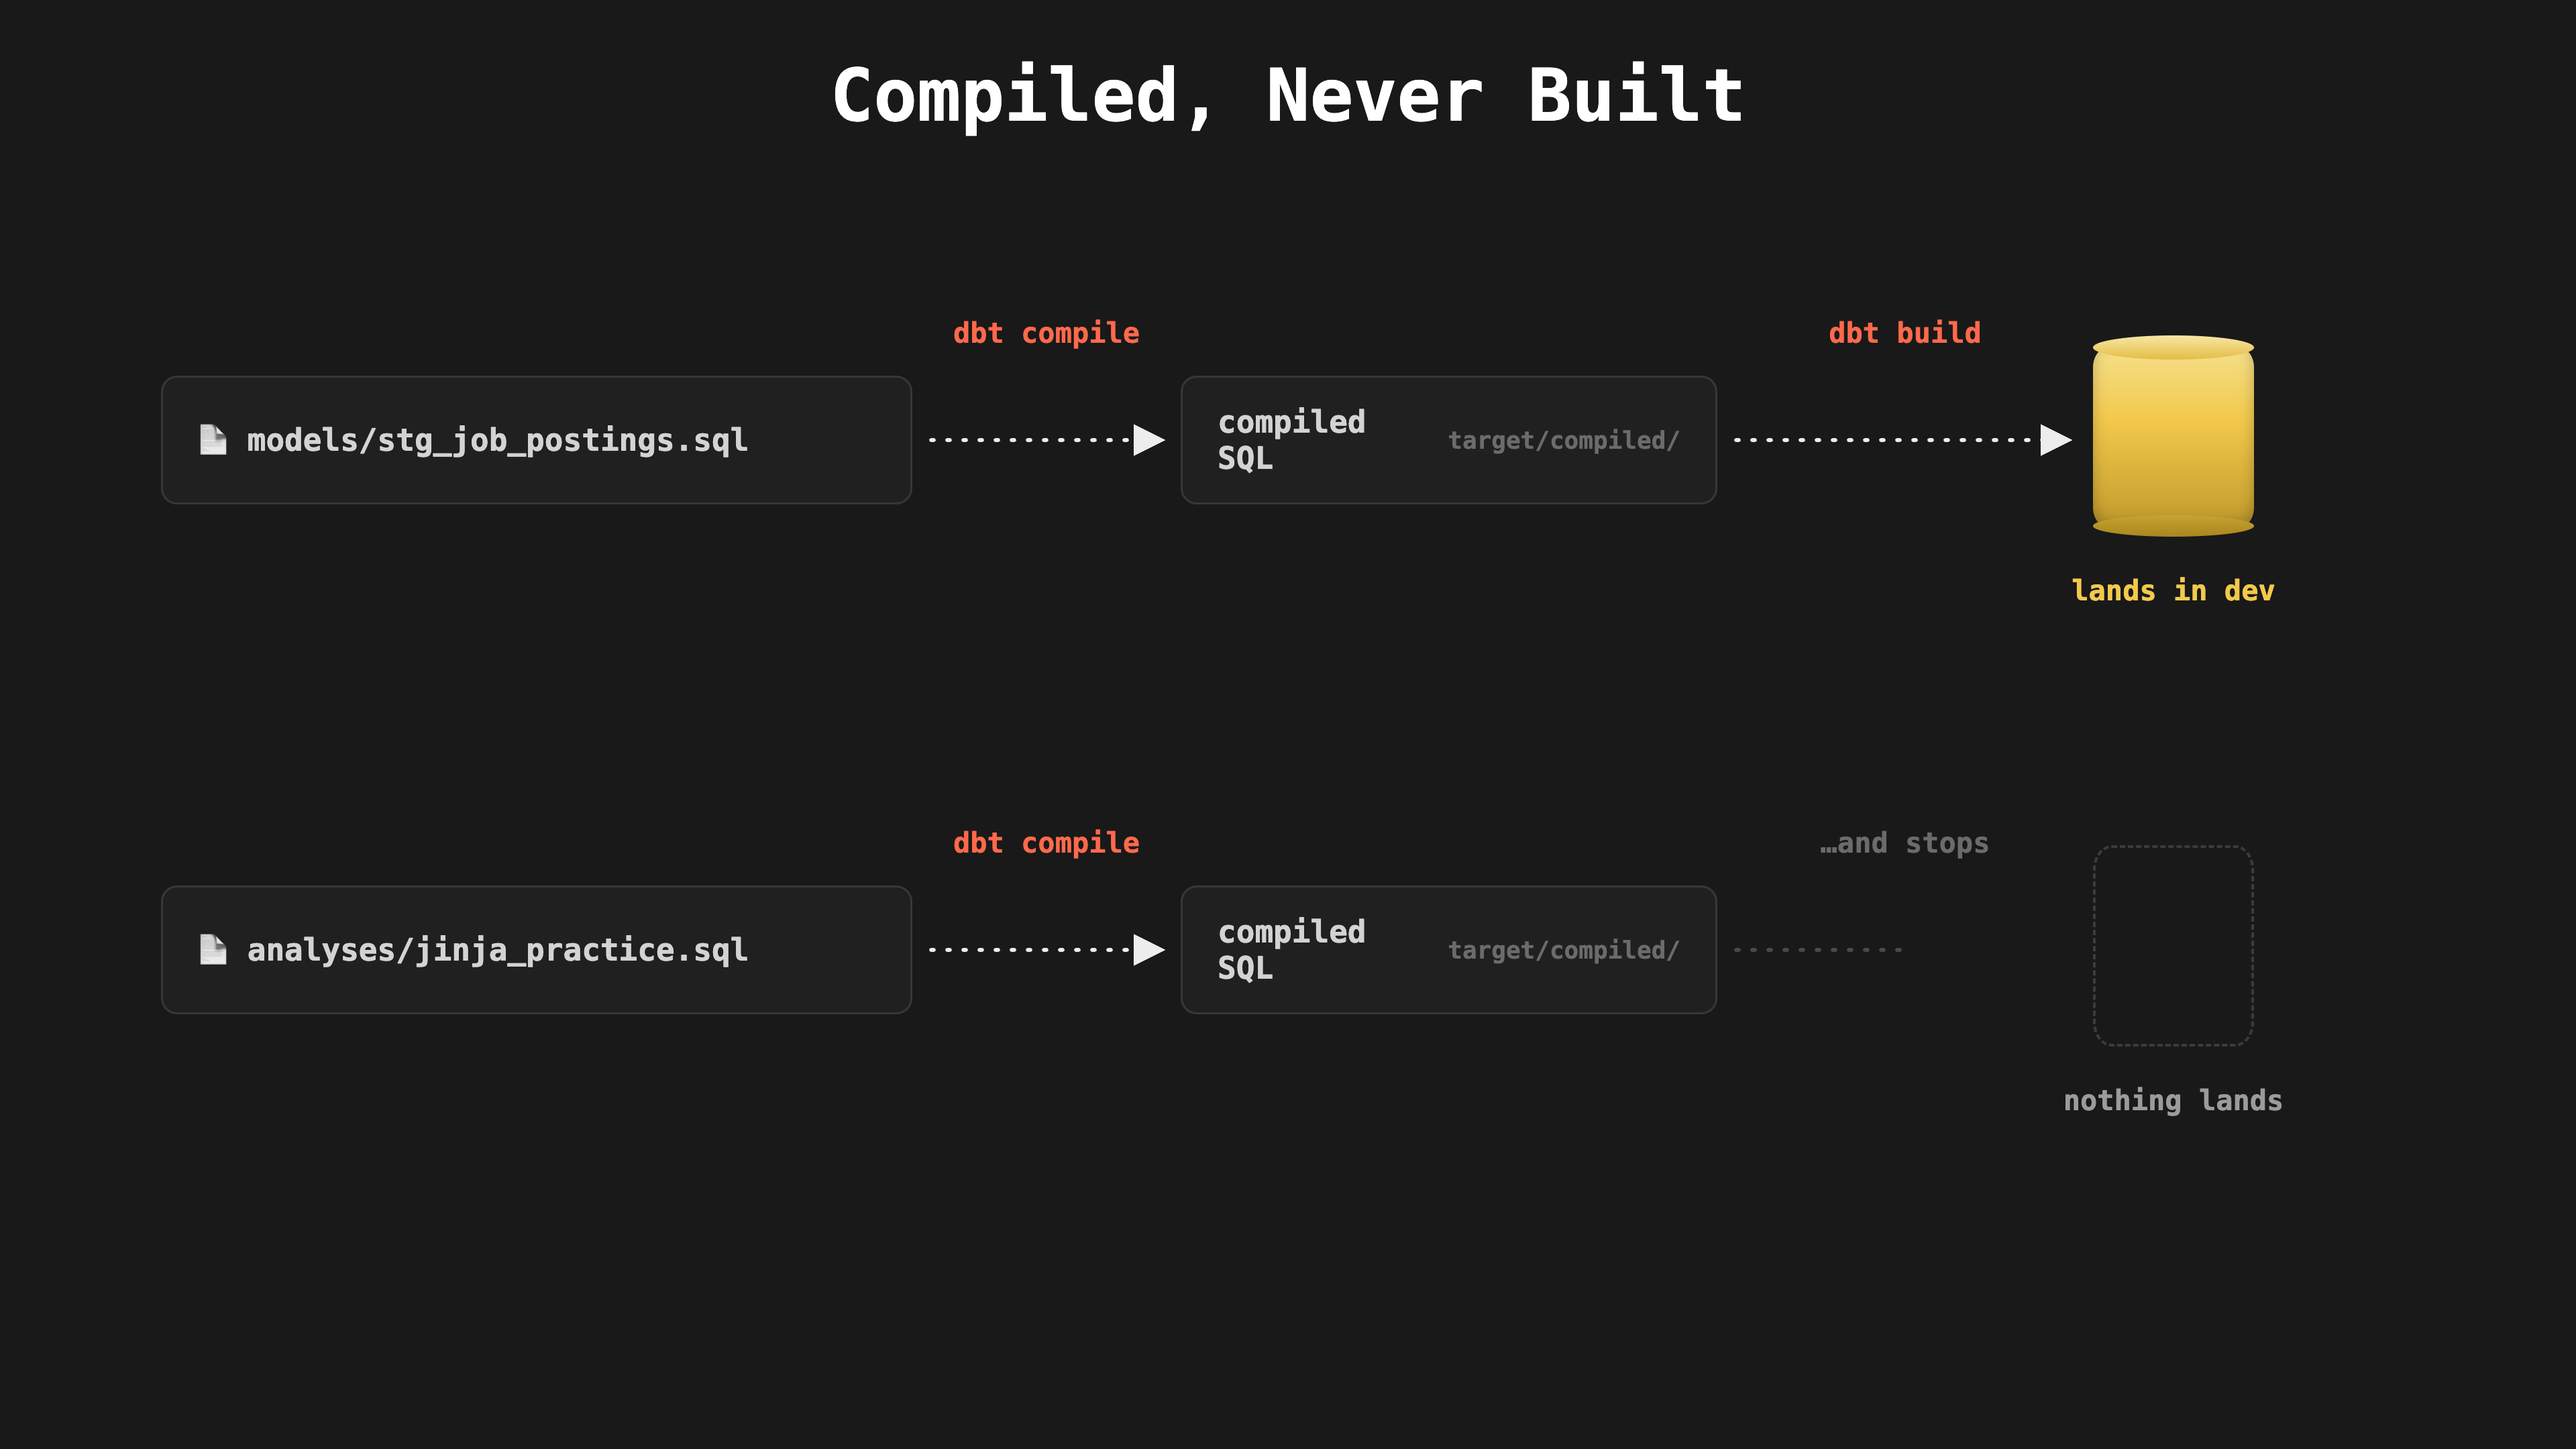
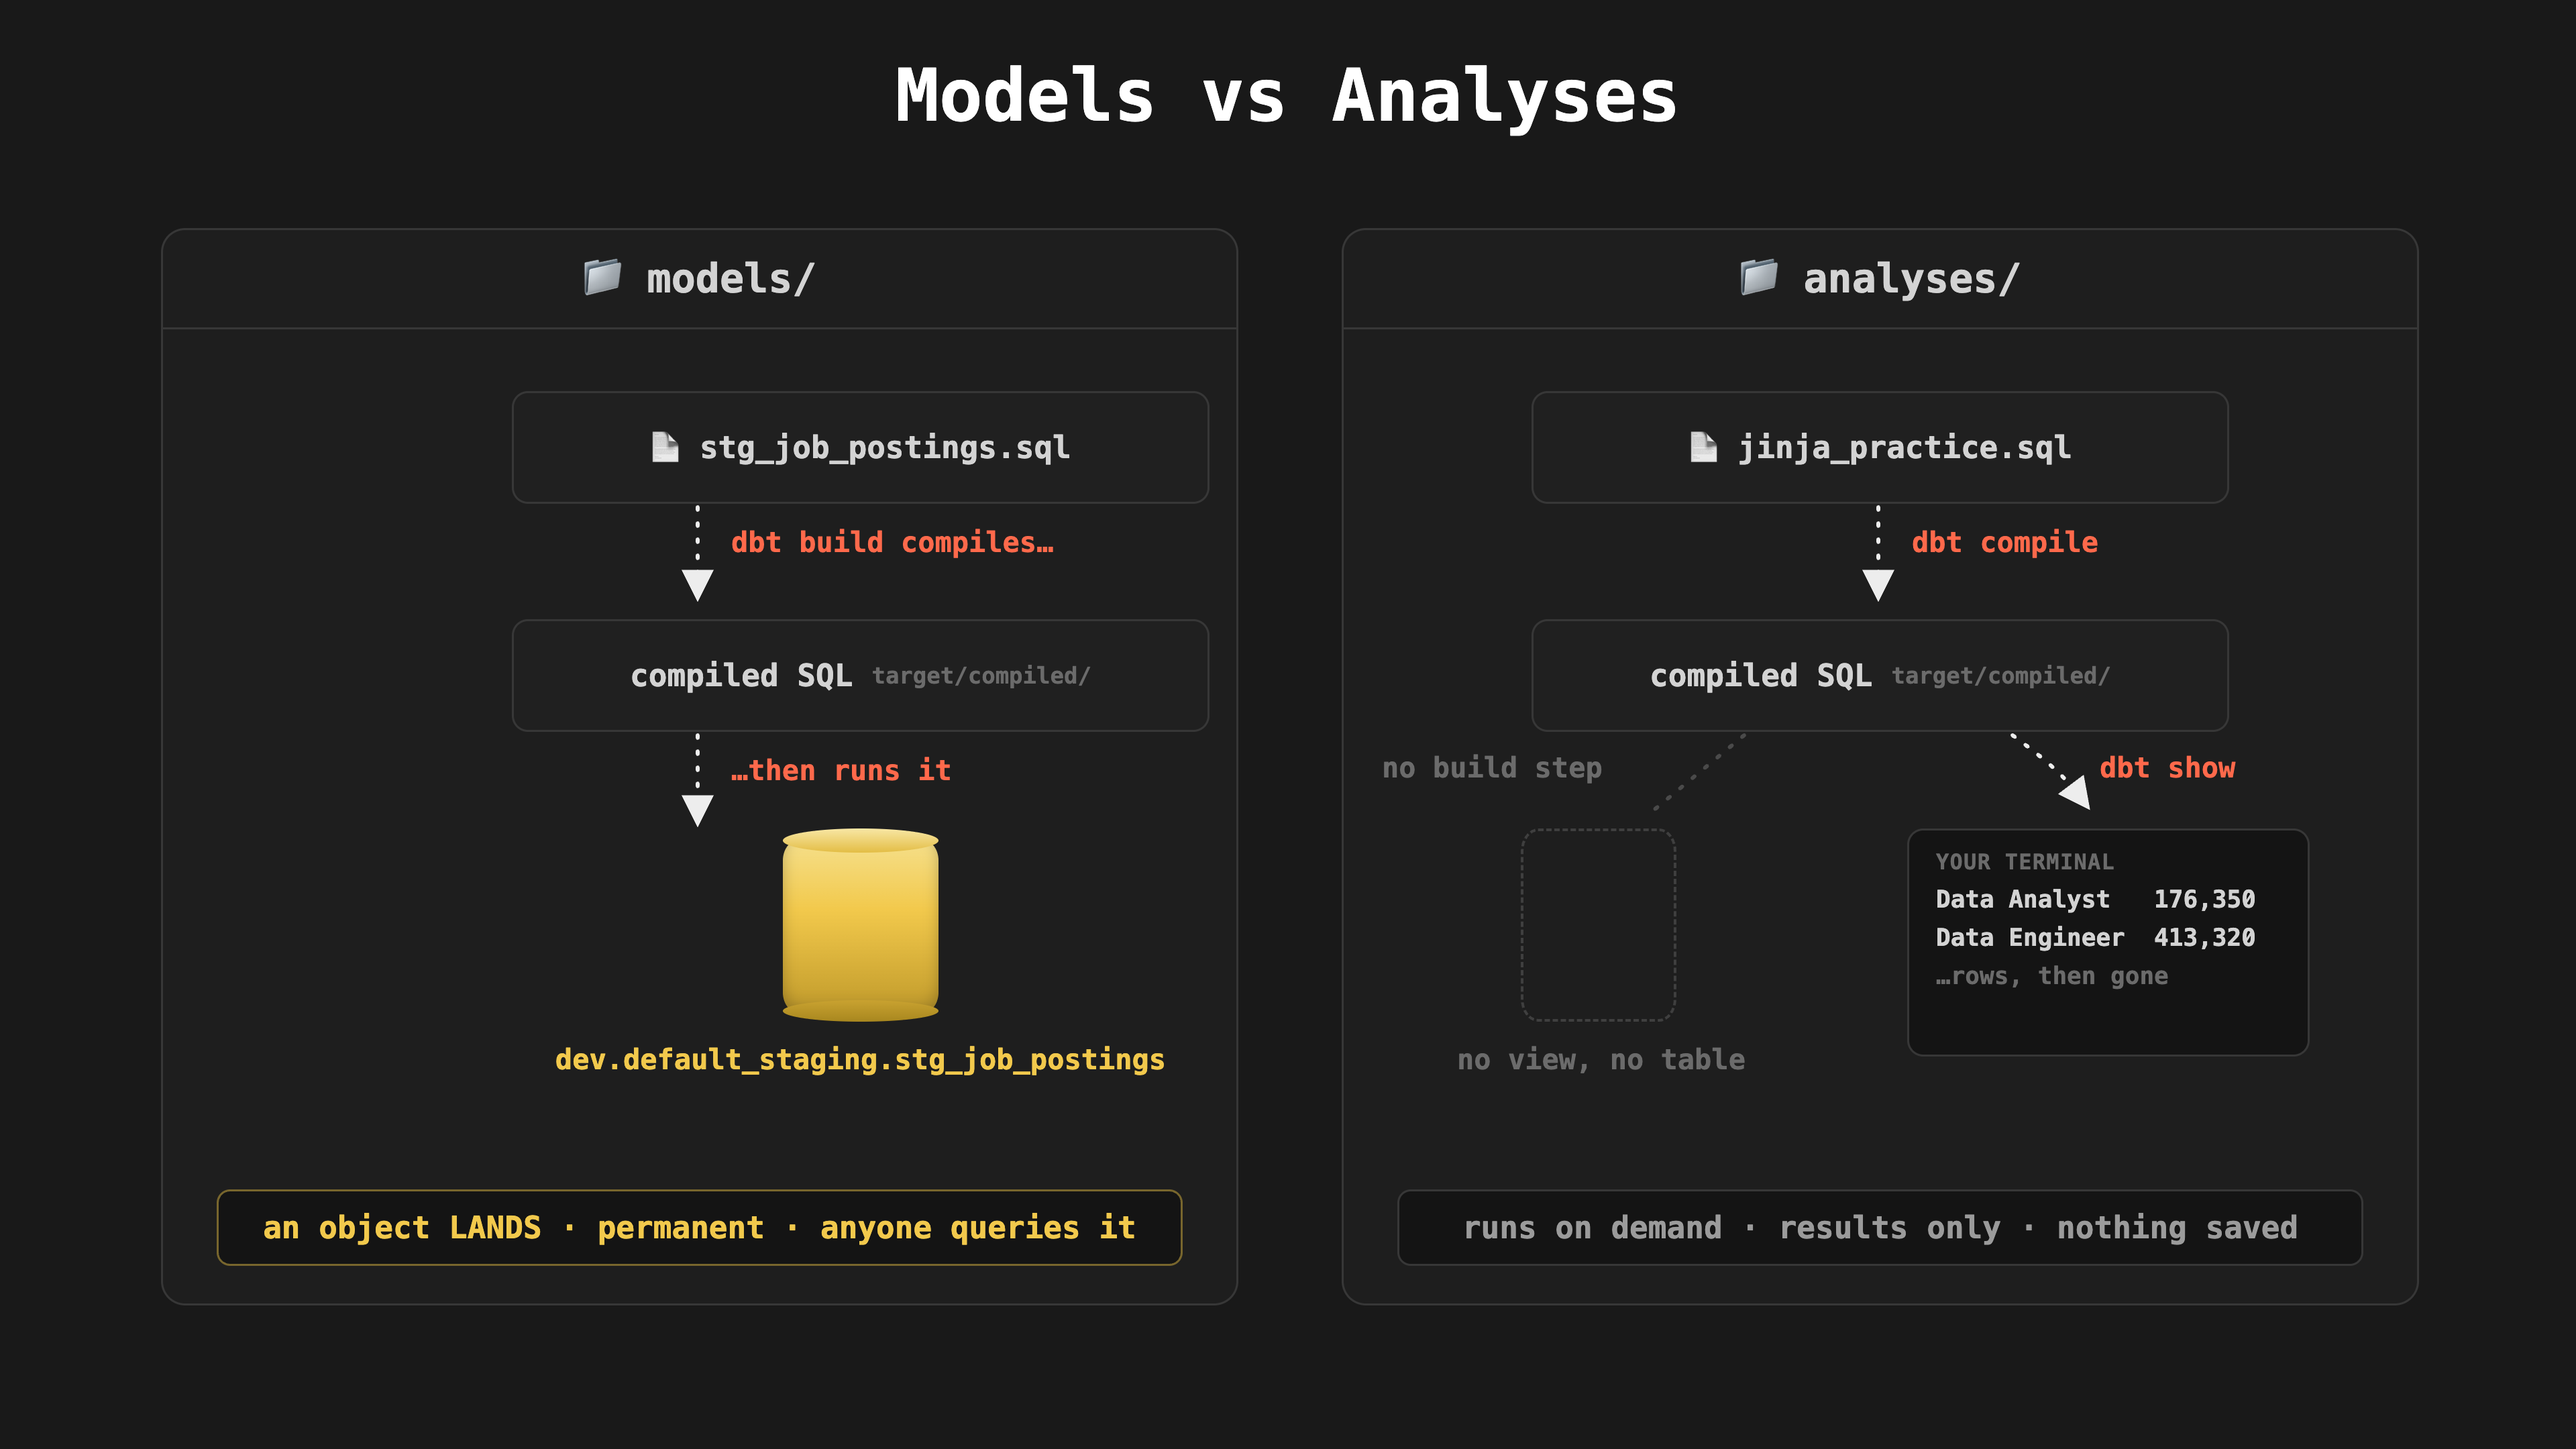
analyses_intro v2 (Luke: too elementary, really Models vs Analyses): two-panel compare - models lane lands dev object, analyses lane forks to no-object ghost AND dbt show terminal card with real rows; run-a-query vs save-an-object distinction drawn

diff --git a/resources/diagrams/3.04_analyses_intro.html b/resources/diagrams/3.04_analyses_intro.html
@@ -3,7 +3,7 @@
 <html>
 <head>
 <meta charset="utf-8">
-<title>Compiled, Never Built</title>
+<title>Models vs Analyses</title>
 <style>
   @import url('https://fonts.googleapis.com/css2?family=Source+Code+Pro:wght@400;600;700;800&display=swap');
   :root{
@@ -18,42 +18,67 @@
   .stage{position:relative;width:1920px;height:1080px;overflow:hidden;font-family:var(--sans);color:var(--text);background:var(--bg)}
   .title{position:absolute;left:0;top:40px;width:1920px;text-align:center;
     font-family:var(--mono);font-size:54px;font-weight:700;color:#FFFFFF}
-  .card{position:absolute;box-sizing:border-box;height:96px;border-radius:12px;background:var(--panel);
-    border:1.5px solid var(--line);display:flex;align-items:center;gap:16px;padding:0 26px;
+  .panel{position:absolute;top:170px;height:800px;background:var(--zone);border:1.5px solid var(--line);border-radius:18px}
+  .phead{position:absolute;left:0;right:0;top:0;height:74px;display:flex;align-items:center;justify-content:center;
+    font-family:var(--mono);font-size:30px;font-weight:800;box-sizing:border-box;border-bottom:1.5px solid var(--line)}
+  .card{position:absolute;box-sizing:border-box;border-radius:12px;background:var(--panel);
+    border:1.5px solid var(--line);display:flex;align-items:center;justify-content:center;gap:14px;
     font-family:var(--mono);font-size:23px;font-weight:700;color:var(--text)}
-  .card small{font-family:var(--mono);font-size:18px;font-weight:600;color:var(--faint)}
-  .cable-label{position:absolute;font-family:var(--mono);font-size:21px;font-weight:700;color:var(--muted);text-align:center}
+  .card small{font-family:var(--mono);font-size:17px;font-weight:600;color:var(--faint)}
+  .lbl{position:absolute;font-family:var(--mono);font-size:21px;font-weight:700;white-space:nowrap}
   .cyl{position:absolute}
   .cyl .body{position:absolute;left:0;right:0;top:9px;bottom:7px;border-radius:11px/15px;background:linear-gradient(180deg,#f5df8a 0%,#F2C94C 40%,#c9a230 90%);box-shadow:inset 0 -5px 10px rgba(0,0,0,.25)}
   .cyl .top{position:absolute;left:0;right:0;top:0;height:18px;border-radius:50%;background:linear-gradient(180deg,#f8e7a5,#e3bd45)}
   .cyl .bot{position:absolute;left:0;right:0;bottom:0;height:16px;border-radius:50%;background:linear-gradient(180deg,#c9a230,#a8871f)}
-  .ghost{position:absolute;box-sizing:border-box;border:2px dashed #4a4a4a;border-radius:14px/18px;opacity:.7}
-  .lane-label{position:absolute;font-family:var(--mono);font-size:26px;font-weight:800}
+  .ghost{position:absolute;box-sizing:border-box;border:2px dashed #4a4a4a;border-radius:13px/17px;opacity:.75}
+  .term{position:absolute;box-sizing:border-box;border-radius:12px;background:#141414;border:1.5px solid var(--line);
+    font-family:var(--mono);padding:14px 20px}
+  .term .th{font-size:16px;font-weight:700;color:var(--faint);letter-spacing:.04em}
+  .term .tr{font-size:18px;font-weight:600;color:var(--text);margin-top:8px;white-space:pre}
+  .tag{position:absolute;left:40px;right:40px;bottom:28px;height:54px;border-radius:10px;
+    display:flex;align-items:center;justify-content:center;font-family:var(--mono);font-size:23px;font-weight:800}
   svg.art{position:absolute;inset:0;pointer-events:none}
 </style>
 </head>
 <body>
 <div class="stage">
 
-  <div class="title">Compiled, Never Built</div>
+  <div class="title">Models vs Analyses</div>
 
-  <!-- ============ LANE 1: models/ ============ -->
-  <div class="card" style="left:120px;top:280px;width:560px">📄 models/stg_job_postings.sql</div>
-  <div class="card" style="left:880px;top:280px;width:400px"><span>compiled SQL</span><small>target/compiled/</small></div>
-  <div class="cyl" style="left:1560px;top:250px;width:120px;height:150px"><div class="body"></div><div class="top"></div><div class="bot"></div></div>
-  <div class="cable-label" style="left:1480px;top:428px;width:280px;color:var(--duck);font-weight:800">lands in dev</div>
+  <!-- ============ LEFT: models/ ============ -->
+  <div class="panel" style="left:120px;width:800px">
+    <div class="phead">📁 models/</div>
+    <div class="card" style="left:260px;top:120px;width:520px;height:84px">📄 stg_job_postings.sql</div>
+    <div class="card" style="left:260px;top:290px;width:520px;height:84px"><span>compiled SQL</span><small>target/compiled/</small></div>
+    <div class="cyl" style="left:462px;top:446px;width:116px;height:144px"><div class="body"></div><div class="top"></div><div class="bot"></div></div>
+    <div class="lbl" style="left:260px;top:606px;width:520px;text-align:center;color:var(--duck);font-weight:800">dev.default_staging.stg_job_postings</div>
+    <div class="tag" style="background:#141414;border:1.5px solid rgba(242,201,76,.45);color:var(--duck)">an object LANDS · permanent · anyone queries it</div>
+  </div>
 
-  <!-- ============ LANE 2: analyses/ ============ -->
-  <div class="card" style="left:120px;top:660px;width:560px">📄 analyses/jinja_practice.sql</div>
-  <div class="card" style="left:880px;top:660px;width:400px"><span>compiled SQL</span><small>target/compiled/</small></div>
-  <div class="ghost" style="left:1560px;top:630px;width:120px;height:150px"></div>
-  <div class="cable-label" style="left:1480px;top:808px;width:280px">nothing lands</div>
+  <!-- ============ RIGHT: analyses/ ============ -->
+  <div class="panel" style="left:1000px;width:800px">
+    <div class="phead">📁 analyses/</div>
+    <div class="card" style="left:140px;top:120px;width:520px;height:84px">📄 jinja_practice.sql</div>
+    <div class="card" style="left:140px;top:290px;width:520px;height:84px"><span>compiled SQL</span><small>target/compiled/</small></div>
+    <!-- branch A: no object -->
+    <div class="ghost" style="left:132px;top:446px;width:116px;height:144px"></div>
+    <div class="lbl" style="left:42px;top:606px;width:300px;text-align:center;color:var(--faint)">no view, no table</div>
+    <!-- branch B: dbt show -->
+    <div class="term" style="left:420px;top:446px;width:300px;height:170px">
+      <div class="th">YOUR TERMINAL</div>
+      <div class="tr">Data Analyst   176,350</div>
+      <div class="tr">Data Engineer  413,320</div>
+      <div class="tr" style="color:var(--faint)">…rows, then gone</div>
+    </div>
+    <div class="tag" style="background:#141414;border:1.5px solid var(--line);color:var(--muted)">runs on demand · results only · nothing saved</div>
+  </div>
 
   <!-- cable labels -->
-  <div class="cable-label" style="left:690px;top:236px;width:180px;color:var(--dbt)">dbt compile</div>
-  <div class="cable-label" style="left:1300px;top:236px;width:240px;color:var(--dbt)">dbt build</div>
-  <div class="cable-label" style="left:690px;top:616px;width:180px;color:var(--dbt)">dbt compile</div>
-  <div class="cable-label" style="left:1300px;top:616px;width:240px;color:var(--faint)">…and stops</div>
+  <div class="lbl" style="left:545px;top:392px;color:var(--dbt)">dbt build compiles…</div>
+  <div class="lbl" style="left:545px;top:562px;color:var(--dbt)">…then runs it</div>
+  <div class="lbl" style="left:1425px;top:392px;color:var(--dbt)">dbt compile</div>
+  <div class="lbl" style="left:1030px;top:560px;color:var(--faint)">no build step</div>
+  <div class="lbl" style="left:1565px;top:560px;color:var(--dbt)">dbt show</div>
 
   <svg class="art" viewBox="0 0 1920 1080">
     <defs>
@@ -61,12 +86,15 @@
         <path d="M 0 0 L 10 5 L 0 10 z" fill="#EDEDED"/>
       </marker>
     </defs>
-    <!-- lane 1 -->
-    <line x1="694" y1="328" x2="864" y2="328" stroke="#EDEDED" stroke-width="3" stroke-dasharray="2 10" stroke-linecap="round" marker-end="url(#ahw)"/>
-    <line x1="1294" y1="328" x2="1540" y2="328" stroke="#EDEDED" stroke-width="3" stroke-dasharray="2 10" stroke-linecap="round" marker-end="url(#ahw)"/>
-    <!-- lane 2: compile only; second cable fades out -->
-    <line x1="694" y1="708" x2="864" y2="708" stroke="#EDEDED" stroke-width="3" stroke-dasharray="2 10" stroke-linecap="round" marker-end="url(#ahw)"/>
-    <line x1="1294" y1="708" x2="1420" y2="708" stroke="#4a4a4a" stroke-width="3" stroke-dasharray="2 10" stroke-linecap="round"/>
+    <!-- left: file → compiled → cylinder -->
+    <line x1="520" y1="378" x2="520" y2="444" stroke="#EDEDED" stroke-width="3" stroke-dasharray="2 10" stroke-linecap="round" marker-end="url(#ahw)"/>
+    <line x1="520" y1="548" x2="520" y2="612" stroke="#EDEDED" stroke-width="3" stroke-dasharray="2 10" stroke-linecap="round" marker-end="url(#ahw)"/>
+    <!-- right: file → compiled -->
+    <line x1="1400" y1="378" x2="1400" y2="444" stroke="#EDEDED" stroke-width="3" stroke-dasharray="2 10" stroke-linecap="round" marker-end="url(#ahw)"/>
+    <!-- right branch A: compiled → ghost (faded, stops) -->
+    <line x1="1300" y1="548" x2="1230" y2="606" stroke="#4a4a4a" stroke-width="3" stroke-dasharray="2 10" stroke-linecap="round"/>
+    <!-- right branch B: compiled → terminal -->
+    <path d="M 1500 548 C 1530 570, 1540 580, 1555 600" fill="none" stroke="#EDEDED" stroke-width="3" stroke-dasharray="2 10" stroke-linecap="round" marker-end="url(#ahw)"/>
   </svg>
 
 </div>
